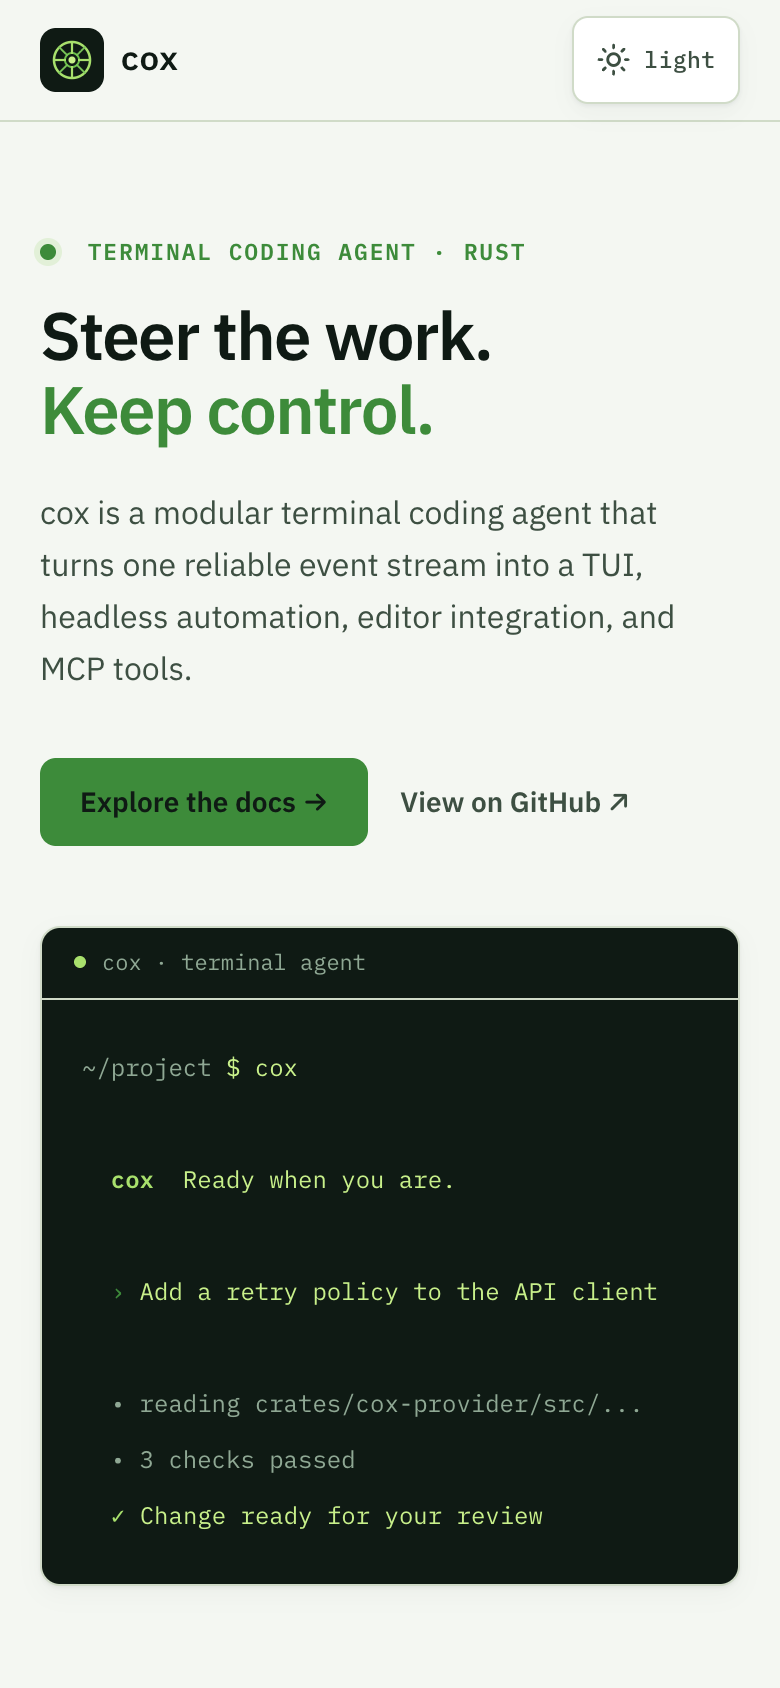
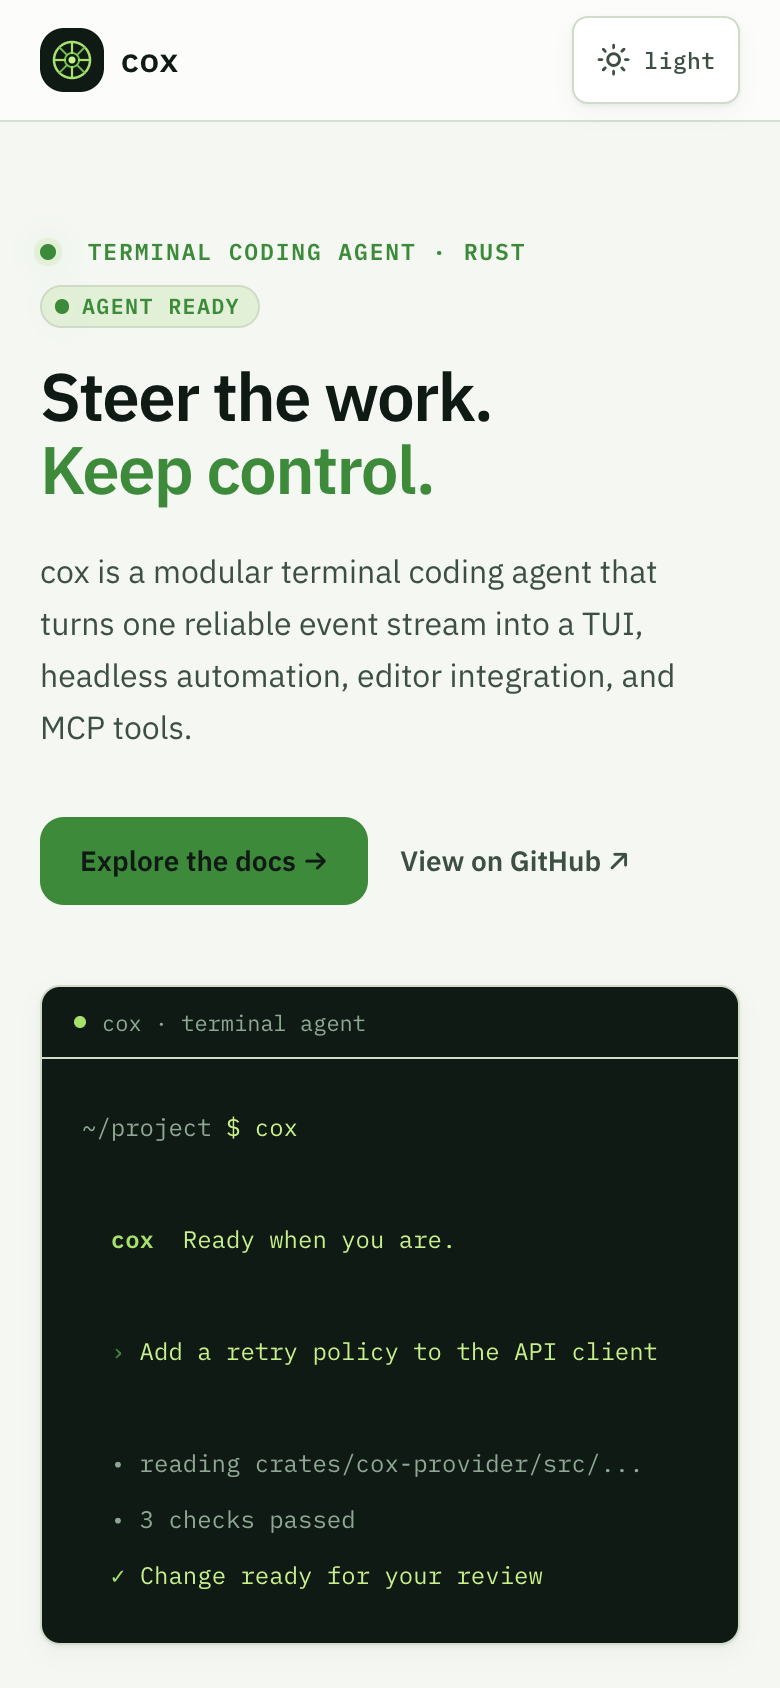
design: restyle landing to nerd+ai+glass+flat (ketch family)
Glass header/cards with reduced-transparency fallbacks, status chips,
accent glow + gradient hairlines; keep forest/chartreuse accents.

diff --git a/website/assets/css/main.css b/website/assets/css/main.css
@@ -25,6 +25,14 @@
   --term-dim: #8FA894;
   --focus-ring: 0 0 0 3px rgba(61, 139, 58, 0.35);
   --shadow: 0 1px 2px rgba(15, 26, 20, 0.06), 0 4px 12px rgba(15, 26, 20, 0.04);
+  --glass-fill: rgba(255, 255, 255, 0.72);
+  --glass-border: rgba(208, 219, 200, 0.9);
+  --elev-1: 0 1px 2px rgba(15, 26, 20, 0.04), 0 1px 3px rgba(15, 26, 20, 0.06);
+  --elev-2: 0 4px 12px rgba(15, 26, 20, 0.06), 0 1px 3px rgba(15, 26, 20, 0.04);
+  --accent-glow: 0 0 0 3px var(--accent-soft), 0 0 18px rgba(61, 139, 58, 0.22);
+  --radius: 10px;
+  --radius-lg: 12px;
+  --radius-sm: 8px;
 }
 
 [data-theme="dark"] {
@@ -48,6 +56,14 @@
   --term-dim: #8FA894;
   --focus-ring: 0 0 0 3px rgba(168, 224, 108, 0.4);
   --shadow: 0 1px 2px rgba(0, 0, 0, 0.35), 0 4px 16px rgba(0, 0, 0, 0.28);
+  --glass-fill: rgba(15, 26, 20, 0.72);
+  --glass-border: rgba(28, 40, 32, 0.9);
+  --elev-1: 0 1px 2px rgba(0, 0, 0, 0.35), 0 1px 3px rgba(0, 0, 0, 0.25);
+  --elev-2: 0 4px 14px rgba(0, 0, 0, 0.4), 0 1px 3px rgba(0, 0, 0, 0.3);
+  --accent-glow: 0 0 0 3px var(--accent-soft), 0 0 20px rgba(168, 224, 108, 0.28);
+  --radius: 10px;
+  --radius-lg: 12px;
+  --radius-sm: 8px;
 }
 
 @media (prefers-color-scheme: dark) {
@@ -73,6 +89,14 @@
     --term-dim: #8FA894;
     --focus-ring: 0 0 0 3px rgba(168, 224, 108, 0.4);
     --shadow: 0 1px 2px rgba(0, 0, 0, 0.35), 0 4px 16px rgba(0, 0, 0, 0.28);
+  --glass-fill: rgba(15, 26, 20, 0.72);
+  --glass-border: rgba(28, 40, 32, 0.9);
+  --elev-1: 0 1px 2px rgba(0, 0, 0, 0.35), 0 1px 3px rgba(0, 0, 0, 0.25);
+  --elev-2: 0 4px 14px rgba(0, 0, 0, 0.4), 0 1px 3px rgba(0, 0, 0, 0.3);
+  --accent-glow: 0 0 0 3px var(--accent-soft), 0 0 20px rgba(168, 224, 108, 0.28);
+  --radius: 10px;
+  --radius-lg: 12px;
+  --radius-sm: 8px;
   }
 }
 
@@ -99,6 +123,14 @@
     --term-dim: #8FA894;
     --focus-ring: 0 0 0 3px rgba(61, 139, 58, 0.35);
     --shadow: 0 1px 2px rgba(15, 26, 20, 0.06), 0 4px 12px rgba(15, 26, 20, 0.04);
+  --glass-fill: rgba(255, 255, 255, 0.72);
+  --glass-border: rgba(208, 219, 200, 0.9);
+  --elev-1: 0 1px 2px rgba(15, 26, 20, 0.04), 0 1px 3px rgba(15, 26, 20, 0.06);
+  --elev-2: 0 4px 12px rgba(15, 26, 20, 0.06), 0 1px 3px rgba(15, 26, 20, 0.04);
+  --accent-glow: 0 0 0 3px var(--accent-soft), 0 0 18px rgba(61, 139, 58, 0.22);
+  --radius: 10px;
+  --radius-lg: 12px;
+  --radius-sm: 8px;
   }
 }
 
@@ -120,6 +152,8 @@
   --color-code-bg: var(--code-bg);
   --color-code-fg: var(--code-fg);
   --color-term-dim: var(--term-dim);
+  --color-glass-fill: var(--glass-fill);
+  --color-glass-border: var(--glass-border);
   /* Back-compat aliases used in docs layouts */
   --color-ink: var(--fg);
   --color-paper: var(--bg);
@@ -207,3 +241,94 @@
     line-height: 1.55;
   }
 }
+
+/* ---------- glass + nerd + ai cues (ketch family) ---------- */
+
+.glass,
+.glass-card,
+.site-header {
+  background: var(--glass-fill);
+  border-color: var(--glass-border);
+  backdrop-filter: blur(14px) saturate(1.2);
+  -webkit-backdrop-filter: blur(14px) saturate(1.2);
+}
+
+.glass-card {
+  border: 1px solid var(--glass-border);
+  border-radius: var(--radius-lg);
+  box-shadow: var(--elev-1);
+  transition: border-color 0.15s ease, box-shadow 0.15s ease;
+}
+
+.glass-card:hover {
+  border-color: var(--accent);
+  box-shadow: var(--elev-2);
+}
+
+.site-header {
+  border-bottom: 1px solid var(--glass-border);
+}
+
+/* Gradient hairline (accent → transparent) — AI compute cue, brand accent only */
+.hairline-grad {
+  position: relative;
+}
+.hairline-grad::after {
+  content: "";
+  position: absolute;
+  left: 0;
+  right: 0;
+  bottom: 0;
+  height: 1px;
+  background: linear-gradient(90deg, var(--accent), transparent 70%);
+  opacity: 0.55;
+  pointer-events: none;
+}
+
+.status-chip {
+  display: inline-flex;
+  align-items: center;
+  gap: 0.4rem;
+  font-family: var(--font-mono);
+  font-size: 0.68rem;
+  font-weight: 600;
+  letter-spacing: 0.06em;
+  text-transform: uppercase;
+  line-height: 1;
+  padding: 0.28rem 0.55rem 0.28rem 0.4rem;
+  border-radius: 999px;
+  background: var(--accent-soft);
+  border: 1px solid var(--line);
+  color: var(--accent);
+}
+.status-chip::before {
+  content: "";
+  width: 0.45rem;
+  height: 0.45rem;
+  border-radius: 50%;
+  background: var(--accent);
+  box-shadow: var(--accent-glow);
+}
+
+.accent-glow {
+  box-shadow: var(--accent-glow);
+}
+
+@media (prefers-reduced-transparency: reduce) {
+  .glass,
+  .glass-card,
+  .site-header {
+    background: var(--elevated);
+    backdrop-filter: none;
+    -webkit-backdrop-filter: none;
+  }
+}
+
+@supports not ((backdrop-filter: blur(1px)) or (-webkit-backdrop-filter: blur(1px))) {
+  .glass,
+  .glass-card,
+  .site-header {
+    background: var(--elevated);
+  }
+}
+

diff --git a/website/layouts/index.html b/website/layouts/index.html
@@ -1,10 +1,13 @@
 {{ define "main" }}
 <section class="mx-auto grid max-w-6xl gap-10 px-5 py-14 sm:px-7 sm:py-20 lg:grid-cols-2 lg:items-center lg:gap-14">
   <div>
-    <p class="mb-4 font-mono text-[0.72rem] font-semibold uppercase tracking-[0.08em] text-accent">
-      <span class="mr-2 inline-block size-2 rounded-sm bg-accent shadow-[0_0_0_3px_var(--accent-soft)]" aria-hidden="true"></span>
-      Terminal coding agent · Rust
-    </p>
+    <div class="mb-4 flex flex-wrap items-center gap-2">
+      <p class="m-0 font-mono text-[0.72rem] font-semibold uppercase tracking-[0.08em] text-accent">
+        <span class="mr-2 inline-block size-2 rounded-sm bg-accent accent-glow" aria-hidden="true"></span>
+        Terminal coding agent · Rust
+      </p>
+      <span class="status-chip">agent ready</span>
+    </div>
     <h1 class="text-[clamp(2.1rem,5vw,3.4rem)] font-semibold leading-[1.08] tracking-tight text-fg">
       Steer the work.<br>
       <span class="text-accent">Keep control.</span>
@@ -35,19 +38,19 @@
 </section>
 
 <section class="mx-auto max-w-6xl px-5 pb-16 sm:px-7 sm:pb-24">
-  <p class="font-mono text-[0.72rem] font-semibold uppercase tracking-[0.08em] text-accent">Designed for the real work</p>
+  <p class="hairline-grad pb-3 font-mono text-[0.72rem] font-semibold uppercase tracking-[0.08em] text-accent">Designed for the real work</p>
   <div class="mt-6 grid gap-6 md:grid-cols-3 md:gap-8">
-    <article class="rounded-[10px] border border-line bg-elevated p-5 shadow-[var(--shadow)]">
+    <article class="glass-card p-5">
       <p class="font-mono text-[0.68rem] font-semibold tracking-[0.08em] text-subtle uppercase">01 / core</p>
       <h2 class="mt-3 text-xl font-semibold tracking-tight text-fg">One core, every surface</h2>
       <p class="mt-2 text-sm leading-relaxed text-muted">The same event stream powers interactive sessions, scripts, MCP clients, and editor adapters—so behavior stays consistent wherever cox runs.</p>
     </article>
-    <article class="rounded-[10px] border border-line bg-elevated p-5 shadow-[var(--shadow)]">
+    <article class="glass-card p-5">
       <p class="font-mono text-[0.68rem] font-semibold tracking-[0.08em] text-subtle uppercase">02 / safety</p>
       <h2 class="mt-3 text-xl font-semibold tracking-tight text-fg">Safe by default</h2>
       <p class="mt-2 text-sm leading-relaxed text-muted">Tools run through a centralized permission engine and a workspace sandbox. Untrusted text never gets a free pass.</p>
     </article>
-    <article class="rounded-[10px] border border-line bg-elevated p-5 shadow-[var(--shadow)]">
+    <article class="glass-card p-5">
       <p class="font-mono text-[0.68rem] font-semibold tracking-[0.08em] text-subtle uppercase">03 / cost</p>
       <h2 class="mt-3 text-xl font-semibold tracking-tight text-fg">Costs you can see</h2>
       <p class="mt-2 text-sm leading-relaxed text-muted">Every request records token usage and cost. Cached context is stable, tool output is archived, and model routing never silently upgrades.</p>

diff --git a/website/layouts/_default/baseof.html b/website/layouts/_default/baseof.html
@@ -29,7 +29,7 @@
   </head>
   <body class="min-h-dvh bg-bg font-sans text-fg antialiased">
     <a class="sr-only focus:not-sr-only focus:absolute focus:left-4 focus:top-4 focus:z-50 focus:rounded focus:bg-accent focus:px-3 focus:py-2 focus:text-deep" href="#main">Skip to content</a>
-    <header class="sticky top-0 z-50 border-b border-line bg-bg/80 backdrop-blur-md">
+    <header class="site-header sticky top-0 z-50 border-b">
       <div class="mx-auto flex h-[3.75rem] max-w-6xl items-center justify-between gap-4 px-5 sm:px-7">
         <a class="inline-flex items-center gap-2 font-mono text-[1.05rem] font-semibold tracking-tight text-fg no-underline hover:text-accent" href="{{ site.Home.RelPermalink }}">
           <img class="size-8 rounded-lg" src="{{ "images/cox-mark.svg" | relURL }}" width="32" height="32" alt="" aria-hidden="true">

diff --git a/docs/brand/tokens.css b/docs/brand/tokens.css
@@ -23,6 +23,9 @@
   --cox-code-bg: #0F1A14;
   --cox-code-fg: #C8F08A;
   --cox-shadow: 0 1px 2px rgba(15, 26, 20, 0.06), 0 4px 12px rgba(15, 26, 20, 0.04);
+  --cox-glass-fill: rgba(255, 255, 255, 0.72);
+  --cox-glass-border: rgba(208, 219, 200, 0.9);
+  --cox-accent-glow: 0 0 0 3px var(--cox-accent-soft), 0 0 18px rgba(61, 139, 58, 0.22);
   --cox-radius: 8px;
   --cox-radius-lg: 12px;
   --cox-font-mono: "IBM Plex Mono", "JetBrains Mono", ui-monospace, monospace;
@@ -52,4 +55,7 @@
   --cox-code-bg: #060A08;
   --cox-code-fg: #C8F08A;
   --cox-shadow: 0 1px 2px rgba(0, 0, 0, 0.35), 0 4px 16px rgba(0, 0, 0, 0.28);
+  --cox-glass-fill: rgba(15, 26, 20, 0.72);
+  --cox-glass-border: rgba(28, 40, 32, 0.9);
+  --cox-accent-glow: 0 0 0 3px var(--cox-accent-soft), 0 0 20px rgba(168, 224, 108, 0.28);
 }

diff --git a/docs/brand/DESIGN.md b/docs/brand/DESIGN.md
@@ -6,6 +6,9 @@
 
 Identity: deep forest ink + chartreuse mint accents. Helm mark signals control without nautical kitsch.
 
+
+**Shared visual lock (Listepo landing v1):** **nerd + ai + glass + flat** — same family as ketch brand v1. IBM Plex Mono eyebrows/labels/chips, hairline borders, mono CLI cards; subtle agent/compute cues (soft accent glow, gradient hairline, status chips) using **chartreuse/forest only** (no purple AI gradients); translucent glass panels with `backdrop-filter` plus opaque `@media (prefers-reduced-transparency: reduce)` fallbacks; flat CTAs, 4/8pt spacing, surface ladder, radii 8–12.
+
 ## Colors
 
 ### Light
